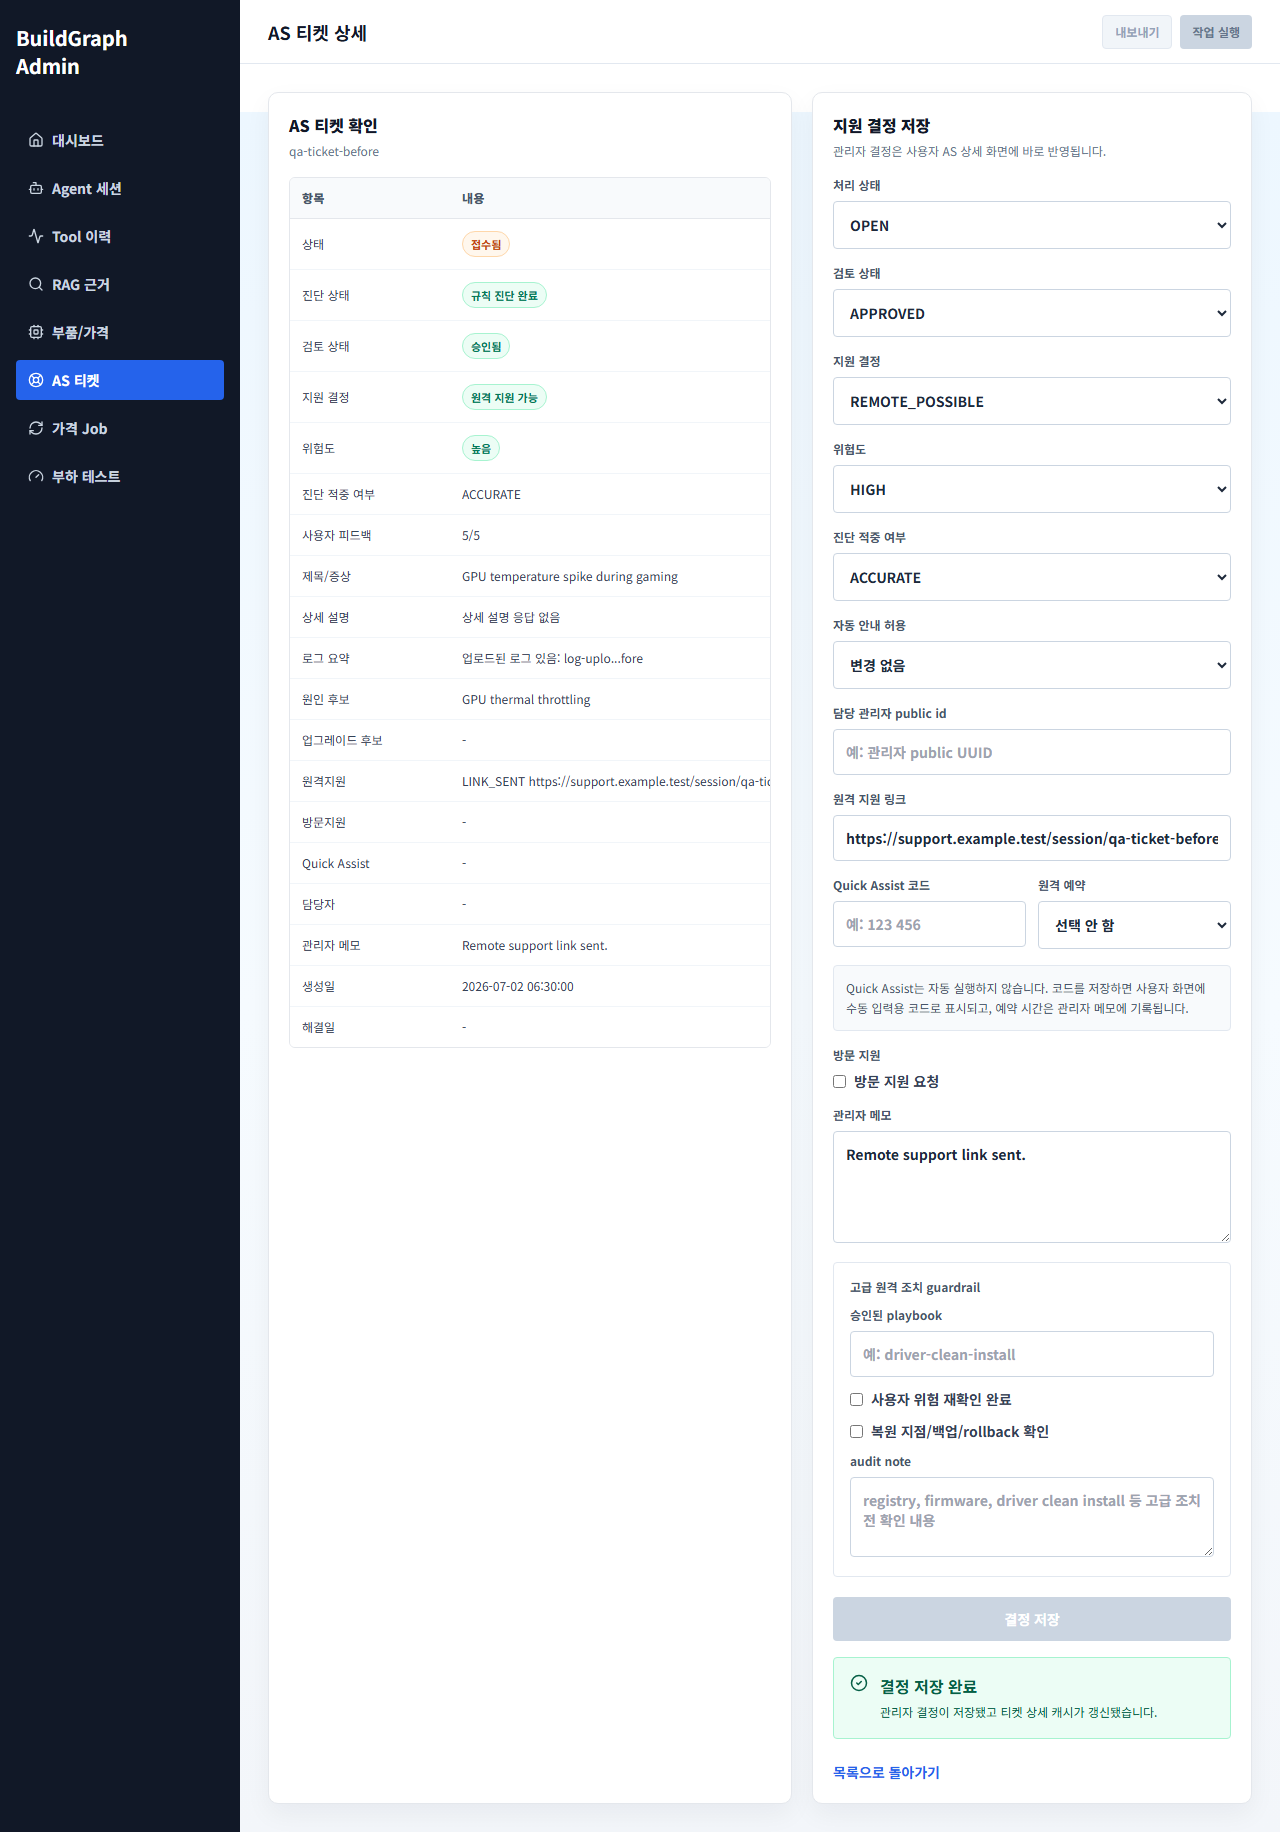
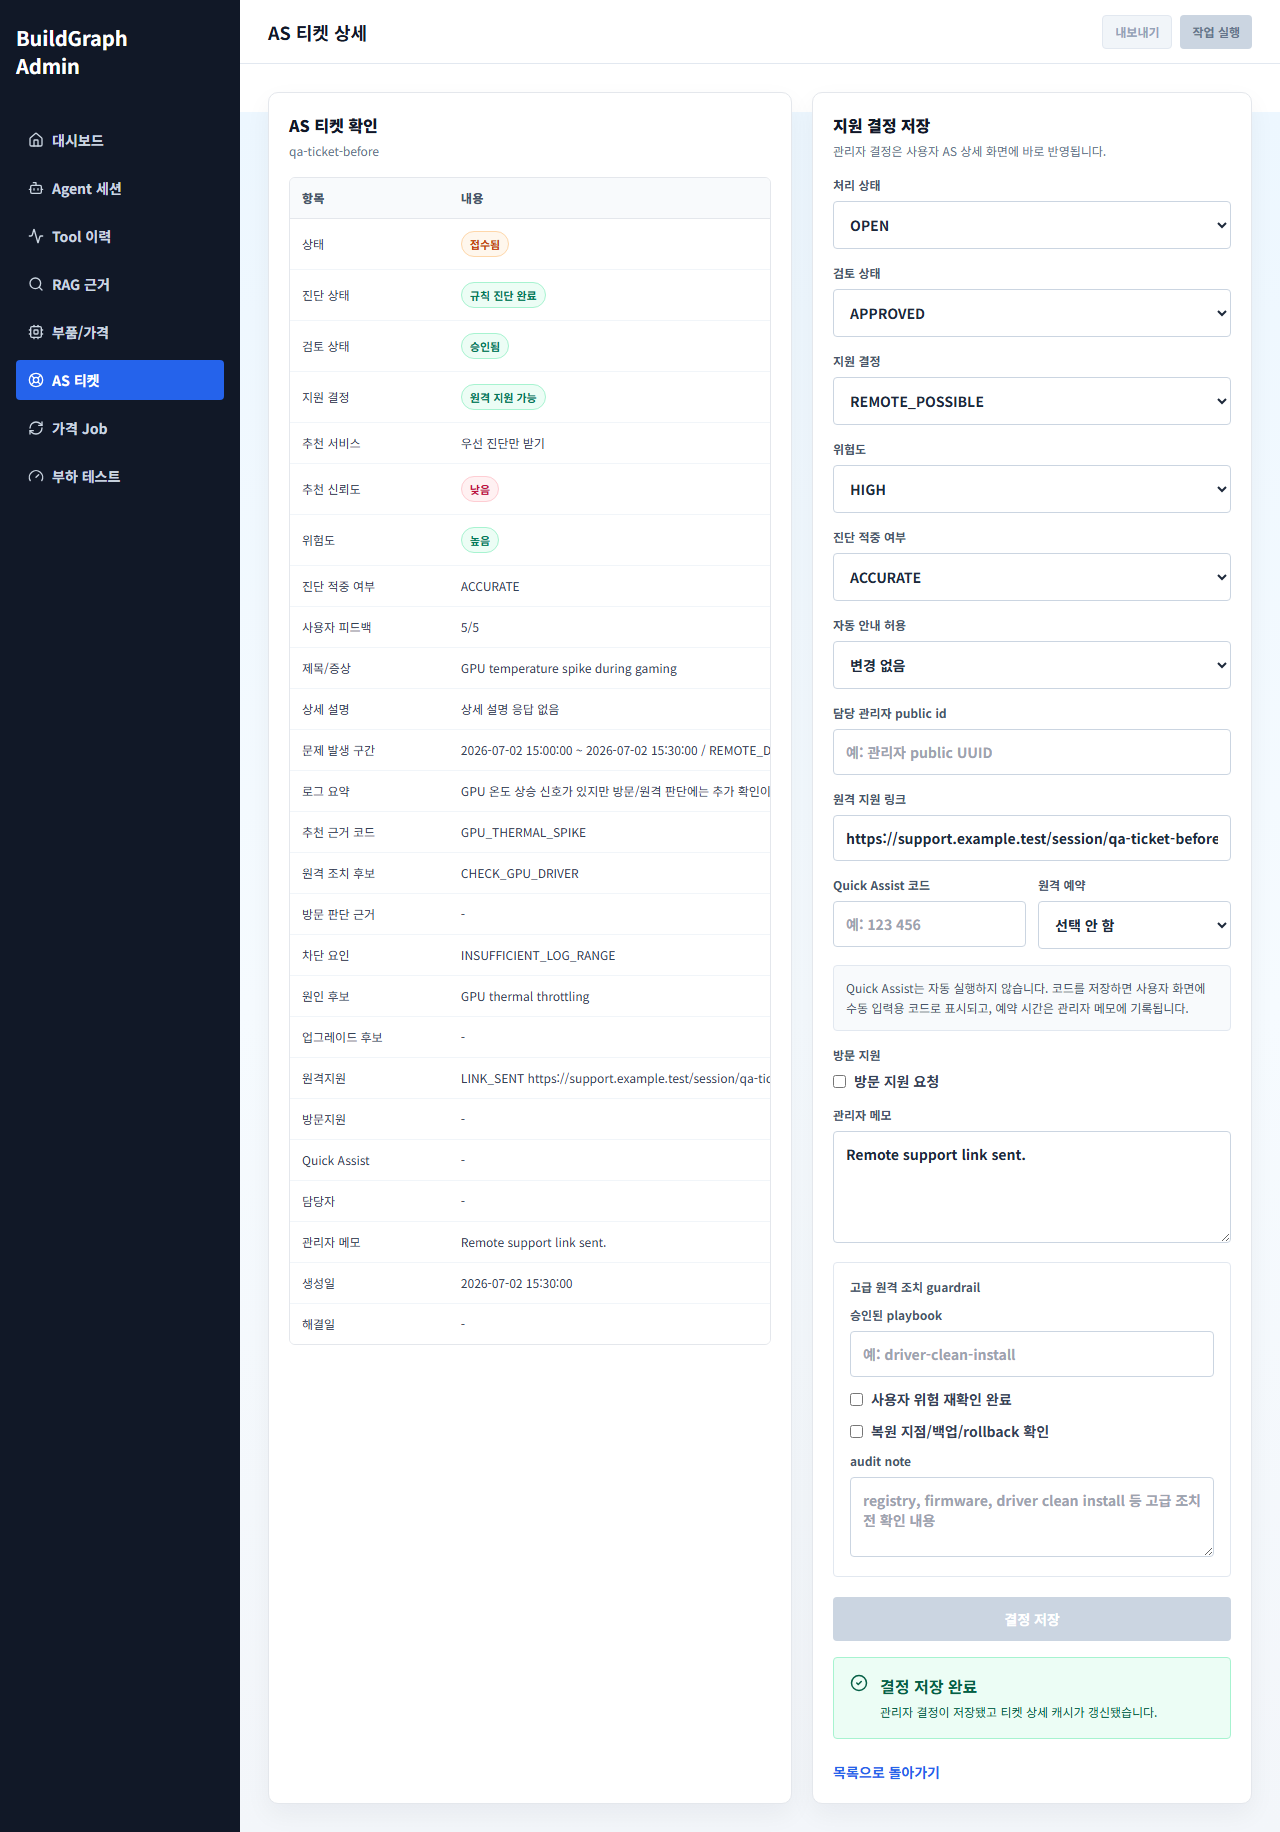
PC Agent 진단 결과와 관리자 AS 티켓 표시 개선

diff --git a/apps/web/src/features/admin/pages/AdminTicketDetailPage.tsx b/apps/web/src/features/admin/pages/AdminTicketDetailPage.tsx
@@ -8,7 +8,16 @@ import type { AdminAsTicket, AdminAsTicketUpdateRequest, AsTicketStatus } from '
 
 const editableStatuses: AsTicketStatus[] = ['OPEN', 'ASSIGNED', 'IN_PROGRESS', 'RESOLVED', 'CLOSED', 'CANCELLED'];
 const reviewStatuses = ['', 'NOT_REQUIRED', 'REQUIRED', 'IN_REVIEW', 'APPROVED', 'REJECTED'];
-const supportDecisions = ['', 'SELF_SOLVABLE', 'REMOTE_POSSIBLE', 'VISIT_REQUIRED', 'NEEDS_MORE_INFO'];
+const supportDecisions = [
+  '',
+  'SELF_SOLVABLE',
+  'REMOTE_POSSIBLE',
+  'VISIT_REQUIRED',
+  'REPAIR_OR_REPLACE',
+  'NEEDS_MORE_INFO',
+  'MONITOR_ONLY',
+  'UNSUPPORTED'
+];
 const riskLevels = ['', 'LOW', 'MEDIUM', 'HIGH'];
 const diagnosticAccuracies = ['', 'ACCURATE', 'PARTIAL', 'MISSED', 'UNKNOWN'];
 const visitTimeSlots = ['', 'MORNING', 'AFTERNOON', 'EVENING'];
@@ -484,12 +493,19 @@ function ticketDetailRows(ticket: AdminAsTicket) {
     { 항목: '진단 상태', 내용: ticket.analysisStatus ? <StatusBadge status={ticket.analysisStatus} /> : '-' },
     { 항목: '검토 상태', 내용: ticket.reviewStatus ? <StatusBadge status={ticket.reviewStatus} /> : '-' },
     { 항목: '지원 결정', 내용: ticket.supportDecision ? <StatusBadge status={ticket.supportDecision} /> : '-' },
+    { 항목: '추천 서비스', 내용: recommendedSupportLabel(ticket) },
+    { 항목: '추천 신뢰도', 내용: routingConfidence(ticket) },
     { 항목: '위험도', 내용: ticket.riskLevel ? <StatusBadge status={ticket.riskLevel} /> : '-' },
     { 항목: '진단 적중 여부', 내용: ticket.diagnosticAccuracy ?? '-' },
     { 항목: '사용자 피드백', 내용: ticket.feedbackRating ? `${ticket.feedbackRating}/5 ${ticket.feedbackComment ?? ''}`.trim() : '-' },
     { 항목: '제목/증상', 내용: ticket.title ?? ticket.symptom },
     { 항목: '상세 설명', 내용: ticket.description ?? ticket.detailDescription ?? '상세 설명 응답 없음' },
+    { 항목: '문제 발생 구간', 내용: incidentWindowSummary(ticket) },
     { 항목: '로그 요약', 내용: logSummary(ticket) },
+    { 항목: '추천 근거 코드', 내용: routingListText(ticket, 'reasonCodes') },
+    { 항목: '원격 조치 후보', 내용: routingListText(ticket, 'remoteActions') },
+    { 항목: '방문 판단 근거', 내용: routingListText(ticket, 'visitReasons') },
+    { 항목: '차단 요인', 내용: routingListText(ticket, 'blockingFactors') },
     { 항목: '원인 후보', 내용: formatCandidates(ticket.causeCandidates) },
     { 항목: '업그레이드 후보', 내용: formatCandidates(ticket.upgradeCandidates) },
     { 항목: '원격지원', 내용: remoteSupport(ticket) },
@@ -503,10 +519,95 @@ function ticketDetailRows(ticket: AdminAsTicket) {
 }
 
 function logSummary(ticket: AdminAsTicket) {
+  if (ticket.logSummaryText) {
+    return ticket.logSummaryText;
+  }
   if (ticket.logSummary) {
-    return ticket.logSummary;
+    if (typeof ticket.logSummary === 'string') {
+      return ticket.logSummary;
+    }
+    const summaryText = textValue(ticket.logSummary.summaryText);
+    if (summaryText) {
+      return summaryText;
+    }
+    const correlations = ticket.logSummary.correlations;
+    if (Array.isArray(correlations)) {
+      const summaries = correlations
+        .map((item) => textValue(objectValue(item)?.summary))
+        .filter(Boolean);
+      if (summaries.length) {
+        return summaries.join(' / ');
+      }
+    }
   }
   return ticket.logUploadId ? `업로드된 로그 있음: ${shortId(ticket.logUploadId)}` : '연결된 로그 없음';
+}
+
+function recommendedSupportLabel(ticket: AdminAsTicket) {
+  const routing = objectValue(ticket.supportRouting);
+  const explicitLabel = textValue(routing?.recommendedServiceLabel);
+  if (explicitLabel) {
+    return explicitLabel;
+  }
+  const service = textValue(routing?.recommendedService);
+  if (service) {
+    return supportServiceLabel(service);
+  }
+  return serviceLabelForDecision(ticket.supportDecision);
+}
+
+function supportServiceLabel(service: string) {
+  switch (service) {
+    case 'REMOTE_SUPPORT':
+      return '원격지원 신청';
+    case 'VISIT_SUPPORT':
+      return '방문지원 신청';
+    case 'DIAGNOSIS_ONLY':
+      return '우선 진단만 받기';
+    default:
+      return service;
+  }
+}
+
+function serviceLabelForDecision(decision?: string | null) {
+  switch (decision) {
+    case 'REMOTE_POSSIBLE':
+      return '원격지원 신청';
+    case 'VISIT_REQUIRED':
+    case 'REPAIR_OR_REPLACE':
+      return '방문지원 신청';
+    case 'UNSUPPORTED':
+      return '지원 범위 밖';
+    default:
+      return '우선 진단만 받기';
+  }
+}
+
+function routingConfidence(ticket: AdminAsTicket) {
+  const confidence = textValue(objectValue(ticket.supportRouting)?.confidence);
+  return confidence ? <StatusBadge status={confidence} /> : '-';
+}
+
+function routingListText(ticket: AdminAsTicket, key: string) {
+  const value = objectValue(ticket.supportRouting)?.[key];
+  if (Array.isArray(value)) {
+    const items = value.map((item) => textValue(item)).filter(Boolean);
+    return items.length ? items.join(' / ') : '-';
+  }
+  return textValue(value) || '-';
+}
+
+function incidentWindowSummary(ticket: AdminAsTicket) {
+  const logSummaryValue = objectValue(ticket.logSummary);
+  const window = objectValue(ticket.incidentWindow) ?? objectValue(logSummaryValue?.incidentWindow);
+  if (!window) {
+    return '-';
+  }
+  const startedAt = textValue(window.startedAt) ?? textValue(window.rangeStartedAt);
+  const endedAt = textValue(window.endedAt) ?? textValue(window.rangeEndedAt);
+  const symptomType = textValue(window.symptomType);
+  const range = startedAt || endedAt ? `${formatDateTime(startedAt)} ~ ${formatDateTime(endedAt)}` : '-';
+  return symptomType ? `${range} / ${symptomType}` : range;
 }
 
 function visitSupport(ticket: AdminAsTicket) {
@@ -536,6 +637,23 @@ function formatCandidates(candidates: Record<string, unknown>[]) {
     const summary = candidate.summary ?? candidate.reason ?? candidate.name ?? candidate.title ?? candidate.label;
     return summary == null ? JSON.stringify(candidate) : String(summary);
   }).join(' / ');
+}
+
+function objectValue(value: unknown) {
+  if (value && typeof value === 'object' && !Array.isArray(value)) {
+    return value as Record<string, unknown>;
+  }
+  return null;
+}
+
+function textValue(value: unknown) {
+  if (typeof value === 'string') {
+    return value.trim() || null;
+  }
+  if (typeof value === 'number' || typeof value === 'boolean') {
+    return String(value);
+  }
+  return null;
 }
 
 function shortId(id: string) {

diff --git a/apps/web/src/features/admin/pages/AdminTicketsPage.tsx b/apps/web/src/features/admin/pages/AdminTicketsPage.tsx
@@ -16,6 +16,7 @@ export function AdminTicketsPage() {
     상태: <StatusBadge status={ticket.status} />,
     검토: ticket.reviewStatus ? <StatusBadge status={ticket.reviewStatus} /> : '-',
     '지원 결정': ticket.supportDecision ? <StatusBadge status={ticket.supportDecision} /> : '-',
+    '추천 서비스': recommendedSupportLabel(ticket),
     증상: <Link className="font-bold text-slate-800 hover:text-brand-blue" to={`/admin/as-tickets/${ticket.id}`}>{ticket.title ?? ticket.symptom}</Link>,
     사용자: userLabel(ticket),
     '접수 시간': formatDateTime(ticket.createdAt),
@@ -31,7 +32,7 @@ export function AdminTicketsPage() {
           <StateMessage type="info" title="AS 티켓 없음" body="표시할 관리자 AS 티켓이 없습니다." />
         ) : null}
         {!isLoading && !isError && ticketRows.length > 0 ? (
-          <DataTable columns={['티켓', '상태', '검토', '지원 결정', '증상', '사용자', '접수 시간', '담당자']} rows={ticketRows} />
+          <DataTable columns={['티켓', '상태', '검토', '지원 결정', '추천 서비스', '증상', '사용자', '접수 시간', '담당자']} rows={ticketRows} />
         ) : null}
       </Panel>
     </AdminShell>
@@ -40,6 +41,63 @@ export function AdminTicketsPage() {
 
 function userLabel(ticket: AdminAsTicket) {
   return ticket.userEmail ?? ticket.userName ?? ticket.userId ?? '-';
+}
+
+function recommendedSupportLabel(ticket: AdminAsTicket) {
+  const routing = objectValue(ticket.supportRouting);
+  const explicitLabel = textValue(routing?.recommendedServiceLabel);
+  if (explicitLabel) {
+    return explicitLabel;
+  }
+  const service = textValue(routing?.recommendedService);
+  if (service) {
+    return supportServiceLabel(service);
+  }
+  return serviceLabelForDecision(ticket.supportDecision);
+}
+
+function supportServiceLabel(service: string) {
+  switch (service) {
+    case 'REMOTE_SUPPORT':
+      return '원격지원 신청';
+    case 'VISIT_SUPPORT':
+      return '방문지원 신청';
+    case 'DIAGNOSIS_ONLY':
+      return '우선 진단만 받기';
+    default:
+      return service;
+  }
+}
+
+function serviceLabelForDecision(decision?: string | null) {
+  switch (decision) {
+    case 'REMOTE_POSSIBLE':
+      return '원격지원 신청';
+    case 'VISIT_REQUIRED':
+    case 'REPAIR_OR_REPLACE':
+      return '방문지원 신청';
+    case 'UNSUPPORTED':
+      return '지원 범위 밖';
+    default:
+      return '우선 진단만 받기';
+  }
+}
+
+function objectValue(value: unknown) {
+  if (value && typeof value === 'object' && !Array.isArray(value)) {
+    return value as Record<string, unknown>;
+  }
+  return null;
+}
+
+function textValue(value: unknown) {
+  if (typeof value === 'string') {
+    return value.trim() || null;
+  }
+  if (typeof value === 'number' || typeof value === 'boolean') {
+    return String(value);
+  }
+  return null;
 }
 
 function shortId(id: string) {

diff --git a/apps/web/tests/agent-as-visual.spec.ts b/apps/web/tests/agent-as-visual.spec.ts
@@ -12,6 +12,33 @@ const beforeDecisionTicket = {
   riskLevel: 'MEDIUM',
   symptom: 'GPU temperature spike during gaming',
   logUploadId: 'log-upload-before',
+  logSummaryText: 'GPU 온도 상승 신호가 있지만 방문/원격 판단에는 추가 확인이 필요합니다.',
+  logSummary: {
+    summaryText: 'GPU 온도 상승 신호가 있지만 방문/원격 판단에는 추가 확인이 필요합니다.',
+    dataQuality: { level: 'PARTIAL' },
+    incidentWindow: {
+      startedAt: '2026-07-02T06:00:00Z',
+      endedAt: '2026-07-02T06:30:00Z',
+      symptomType: 'REMOTE_DRIVER_OS'
+    },
+    correlations: [
+      { type: 'AS_RAG_MATCH', summary: 'GPU thermal throttling 신호가 감지됐습니다.' }
+    ],
+    rawSamples: [
+      { sampleId: 'sample-1', text: 'gpu temperature reached 95c' }
+    ]
+  },
+  supportRouting: {
+    recommendedDecision: 'NEEDS_MORE_INFO',
+    confidence: 'LOW',
+    reasonCodes: ['GPU_THERMAL_SPIKE'],
+    remoteActions: ['CHECK_GPU_DRIVER'],
+    visitReasons: [],
+    blockingFactors: ['INSUFFICIENT_LOG_RANGE'],
+    recommendedService: 'DIAGNOSIS_ONLY',
+    recommendedServiceLabel: '우선 진단만 받기',
+    requiresAdminApproval: true
+  },
   assignedAdminId: null,
   causeCandidates: [
     { label: 'GPU thermal throttling', confidence: 'HIGH', evidenceIds: ['gpu-temperature-95c'] }
@@ -40,12 +67,33 @@ const afterDecisionTicket = {
   remoteSupportStatus: 'LINK_SENT'
 };
 
+const visitRecommendedTicket = {
+  ...beforeDecisionTicket,
+  id: 'qa-ticket-visit',
+  supportDecision: 'VISIT_REQUIRED',
+  riskLevel: 'HIGH',
+  symptom: 'Kernel-Power 반복 종료와 WHEA 오류',
+  logSummaryText: 'Kernel-Power와 WHEA 오류가 반복되어 현장 점검 가능성이 높습니다.',
+  supportRouting: {
+    recommendedDecision: 'VISIT_REQUIRED',
+    confidence: 'HIGH',
+    reasonCodes: ['KERNEL_POWER_REPEAT', 'WHEA_ERROR_REPEAT'],
+    remoteActions: [],
+    visitReasons: ['POWER_OR_BOARD_CHECK_REQUIRED'],
+    blockingFactors: [],
+    recommendedService: 'VISIT_SUPPORT',
+    recommendedServiceLabel: '방문지원 신청',
+    requiresAdminApproval: true
+  }
+};
+
 test('captures Agent AS demo UI evidence and verifies admin decision reflection', async ({ page }) => {
   const consoleErrors: string[] = [];
   const apiCalls: string[] = [];
   const tickets = new Map<string, MockTicket>([
     [beforeDecisionTicket.id, beforeDecisionTicket],
-    [afterDecisionTicket.id, afterDecisionTicket]
+    [afterDecisionTicket.id, afterDecisionTicket],
+    [visitRecommendedTicket.id, visitRecommendedTicket]
   ]);
   let decisionPatchPayload: Record<string, unknown> | undefined;
   let remoteRequestPayload: Record<string, unknown> | undefined;
@@ -163,8 +211,16 @@ test('captures Agent AS demo UI evidence and verifies admin decision reflection'
   await page.evaluate(() => {
     localStorage.setItem('buildgraph.token', 'jwt-admin-token');
   });
+  await page.goto('/admin/as-tickets');
+  await expect(page.getByRole('main')).toContainText('추천 서비스');
+  await expect(page.getByRole('main')).toContainText('방문지원 신청');
   await page.goto('/admin/as-tickets/qa-ticket-before');
   await expect(page.getByRole('main')).toContainText('지원 결정 저장');
+  await expect(page.getByRole('main')).toContainText('추천 서비스');
+  await expect(page.getByRole('main')).toContainText('우선 진단만 받기');
+  await expect(page.getByRole('main')).toContainText('GPU 온도 상승 신호');
+  await expect(page.getByRole('main')).toContainText('GPU_THERMAL_SPIKE');
+  await expect(page.getByRole('main')).toContainText('CHECK_GPU_DRIVER');
   await page.getByLabel('검토 상태').selectOption('APPROVED');
   await page.getByLabel('지원 결정').selectOption('REMOTE_POSSIBLE');
   await page.getByLabel('위험도').selectOption('HIGH');

diff --git a/apps/web/src/features/admin/adminApi.ts b/apps/web/src/features/admin/adminApi.ts
@@ -101,7 +101,11 @@ export type AdminAsTicket = {
   description?: string | null;
   detailDescription?: string | null;
   logUploadId?: string | null;
-  logSummary?: string | null;
+  incidentWindow?: Record<string, unknown> | null;
+  logSummary?: Record<string, unknown> | string | null;
+  logSummaryText?: string | null;
+  supportRouting?: Record<string, unknown> | null;
+  aiDiagnosisRequest?: Record<string, unknown> | null;
   userId?: string | null;
   userEmail?: string | null;
   userName?: string | null;

diff --git a/apps/pc-agent/buildgraph_agent.py b/apps/pc-agent/buildgraph_agent.py
@@ -2008,10 +2008,24 @@ def format_diagnosis_history_time(value: Any) -> str:
     return parsed.strftime("%Y-%m-%d %H:%M")
 
 
+def compact_home_diagnosis_reason(record: dict[str, Any]) -> str:
+    recommended_service = str(record.get("recommendedService") or "")
+    support_decision = str(record.get("supportDecision") or "")
+    if support_decision in {"VISIT_REQUIRED", "REPAIR_OR_REPLACE"} or recommended_service == "VISIT_SUPPORT":
+        return "방문 점검이 필요한 신호가 있어 관리자 검토를 권장합니다."
+    if support_decision == "REMOTE_POSSIBLE" or recommended_service == "REMOTE_SUPPORT":
+        return "원격으로 먼저 확인 가능한 신호가 있어 원격지원을 권장합니다."
+    if support_decision == "UNSUPPORTED":
+        return "PC Agent AS 지원 범위 밖 신호로 분류되어 관리자 확인이 필요합니다."
+    if support_decision == "MONITOR_ONLY":
+        return "즉시 조치보다 재발 여부를 더 지켜보는 것이 적절합니다."
+    return "최근 로그에서 뚜렷한 장애 신호가 없어 원격/방문 판단은 보류했습니다."
+
+
 def compact_home_diagnosis_text(record: dict[str, Any]) -> str:
     label = sanitize_display_text(record.get("recommendedServiceLabel"), 40)
-    summary = sanitize_display_text(record.get("summaryText") or record.get("recommendationMessage"), 130)
-    return f"최근 진단: {label}\n{summary}"
+    confidence = sanitize_display_text(record.get("confidence"), 20)
+    return f"최근 진단: {label} / 신뢰도 {confidence}\n{compact_home_diagnosis_reason(record)}"
 
 
 def diagnosis_history_detail_text(record: dict[str, Any]) -> str:

diff --git a/apps/pc-agent/test_buildgraph_agent.py b/apps/pc-agent/test_buildgraph_agent.py
@@ -1063,6 +1063,20 @@ class AgentGoal1112Test(unittest.TestCase):
             self.assertEqual(rows[1]["summaryText"], "첫 번째 진단")
             self.assertIn("최근 진단:", agent.compact_home_diagnosis_text(rows[0]))
 
+    def test_compact_home_diagnosis_text_explains_diagnosis_only_reason(self) -> None:
+        text = agent.compact_home_diagnosis_text(
+            {
+                "recommendedService": "DIAGNOSIS_ONLY",
+                "recommendedServiceLabel": "우선 진단만 받기",
+                "supportDecision": "NEEDS_MORE_INFO",
+                "confidence": "LOW",
+            }
+        )
+
+        self.assertIn("최근 진단: 우선 진단만 받기 / 신뢰도 LOW", text)
+        self.assertIn("뚜렷한 장애 신호가 없어", text)
+        self.assertIn("원격/방문 판단은 보류", text)
+
     def test_ensure_default_config_creates_background_config(self) -> None:
         with tempfile.TemporaryDirectory() as directory:
             path = Path(directory) / "agent-config.json"